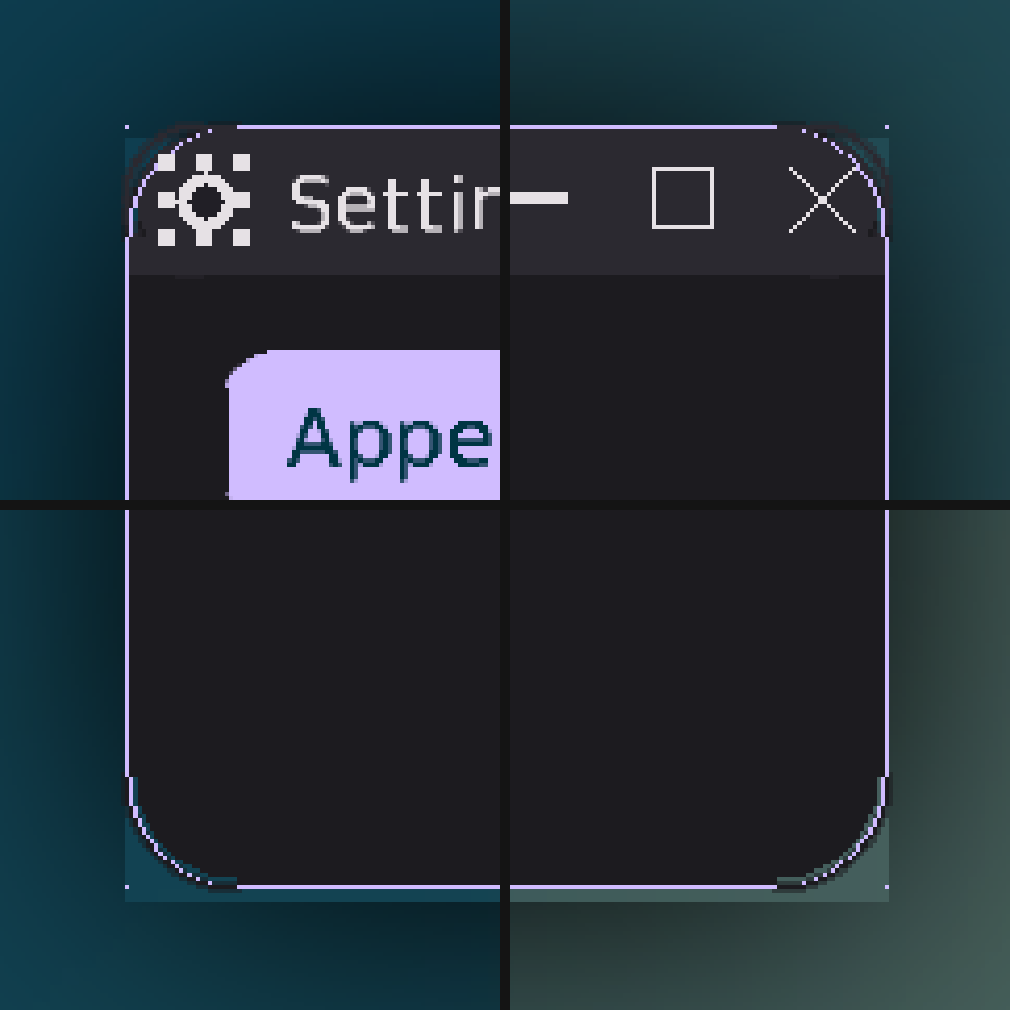
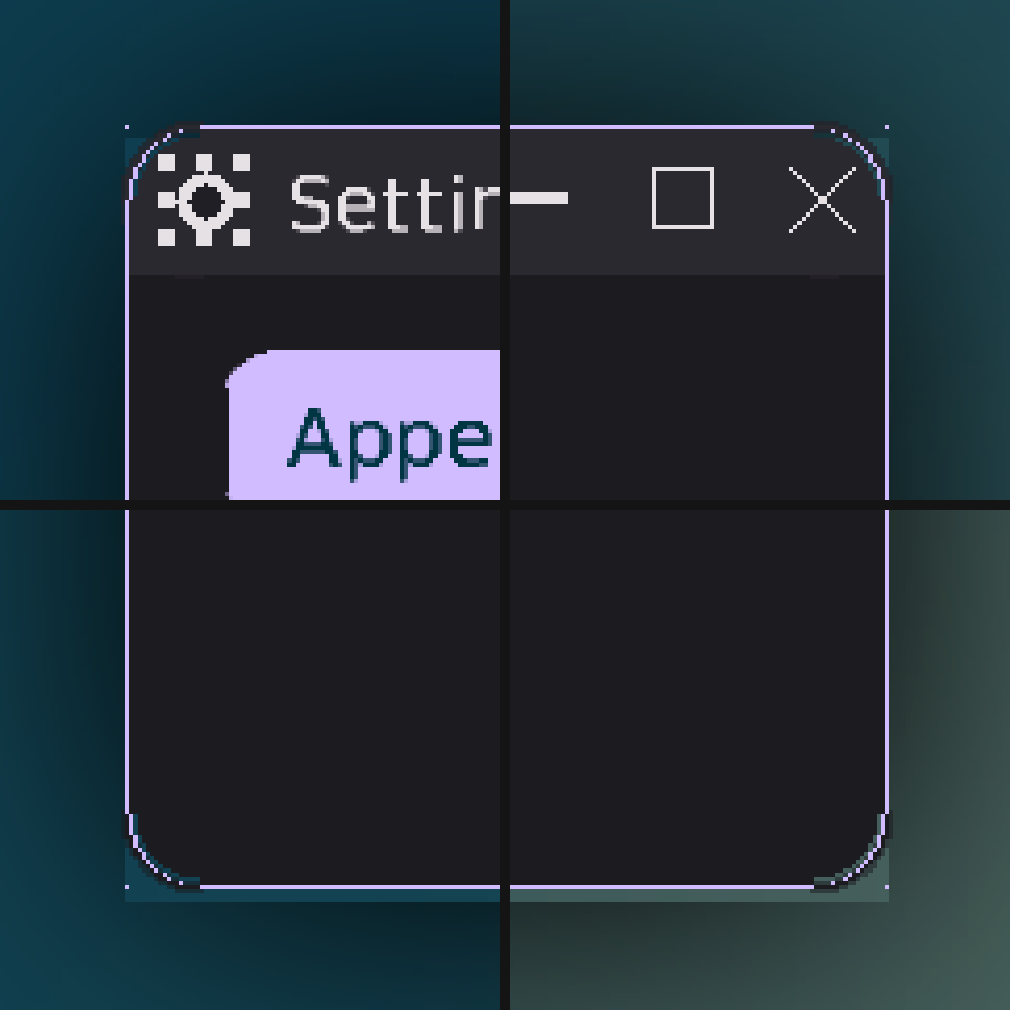
OBS-03 圆角半径 16 -> 12（B 方案）
按用户选的 B 方案，把 corner_radius 从 16 降到 12（Win11 观感更接近）：
配置模板、读取默认、初始化三处同步；窗口与投影共用同一公式，因此阴影自动跟随。
实测顶边直线段从 x+13 起（半径 12），四角弧更紧凑，回归 1/1 全绿，内核 881368 B。

diff --git a/kernel/arch/x86_64/hpdesk.c b/kernel/arch/x86_64/hpdesk.c
@@ -336,7 +336,7 @@ static const char *default_config =
 "    dock_height: 64\n"
 "    dock_margin_bottom: 12\n"
 "    dock_icon_size: 44\n"
-"    corner_radius: 18\n"
+"    corner_radius: 12\n"
 "    font_small: 12\n"
 "    font_normal: 14\n"
 "    font_large: 18\n"
@@ -430,7 +430,7 @@ static void load_ui_from_config(hsqml_node_t *ui)
     g_shell.ui.dock_height = hsqml_get_number(ui, "dock_height", 64);
     g_shell.ui.dock_margin_bottom = hsqml_get_number(ui, "dock_margin_bottom", 12);
     g_shell.ui.dock_icon_size = hsqml_get_number(ui, "dock_icon_size", 44);
-    g_shell.ui.corner_radius = hsqml_get_number(ui, "corner_radius", 16);
+    g_shell.ui.corner_radius = hsqml_get_number(ui, "corner_radius", 12);
     g_shell.ui.font_small = hsqml_get_number(ui, "font_small", 12);
     g_shell.ui.font_normal = hsqml_get_number(ui, "font_normal", 14);
     g_shell.ui.font_large = hsqml_get_number(ui, "font_large", 18);
@@ -5424,7 +5424,7 @@ int hpdesk_init(int width, int height)
     g_shell.ui.dock_height = 64;
     g_shell.ui.dock_margin_bottom = 12;
     g_shell.ui.dock_icon_size = 44;
-    g_shell.ui.corner_radius = 16;
+    g_shell.ui.corner_radius = 12;
     g_shell.ui.window_shadow = 1;
     g_shell.ui.cursor_theme = 0;
     g_shell.ui.font_small = 12;
